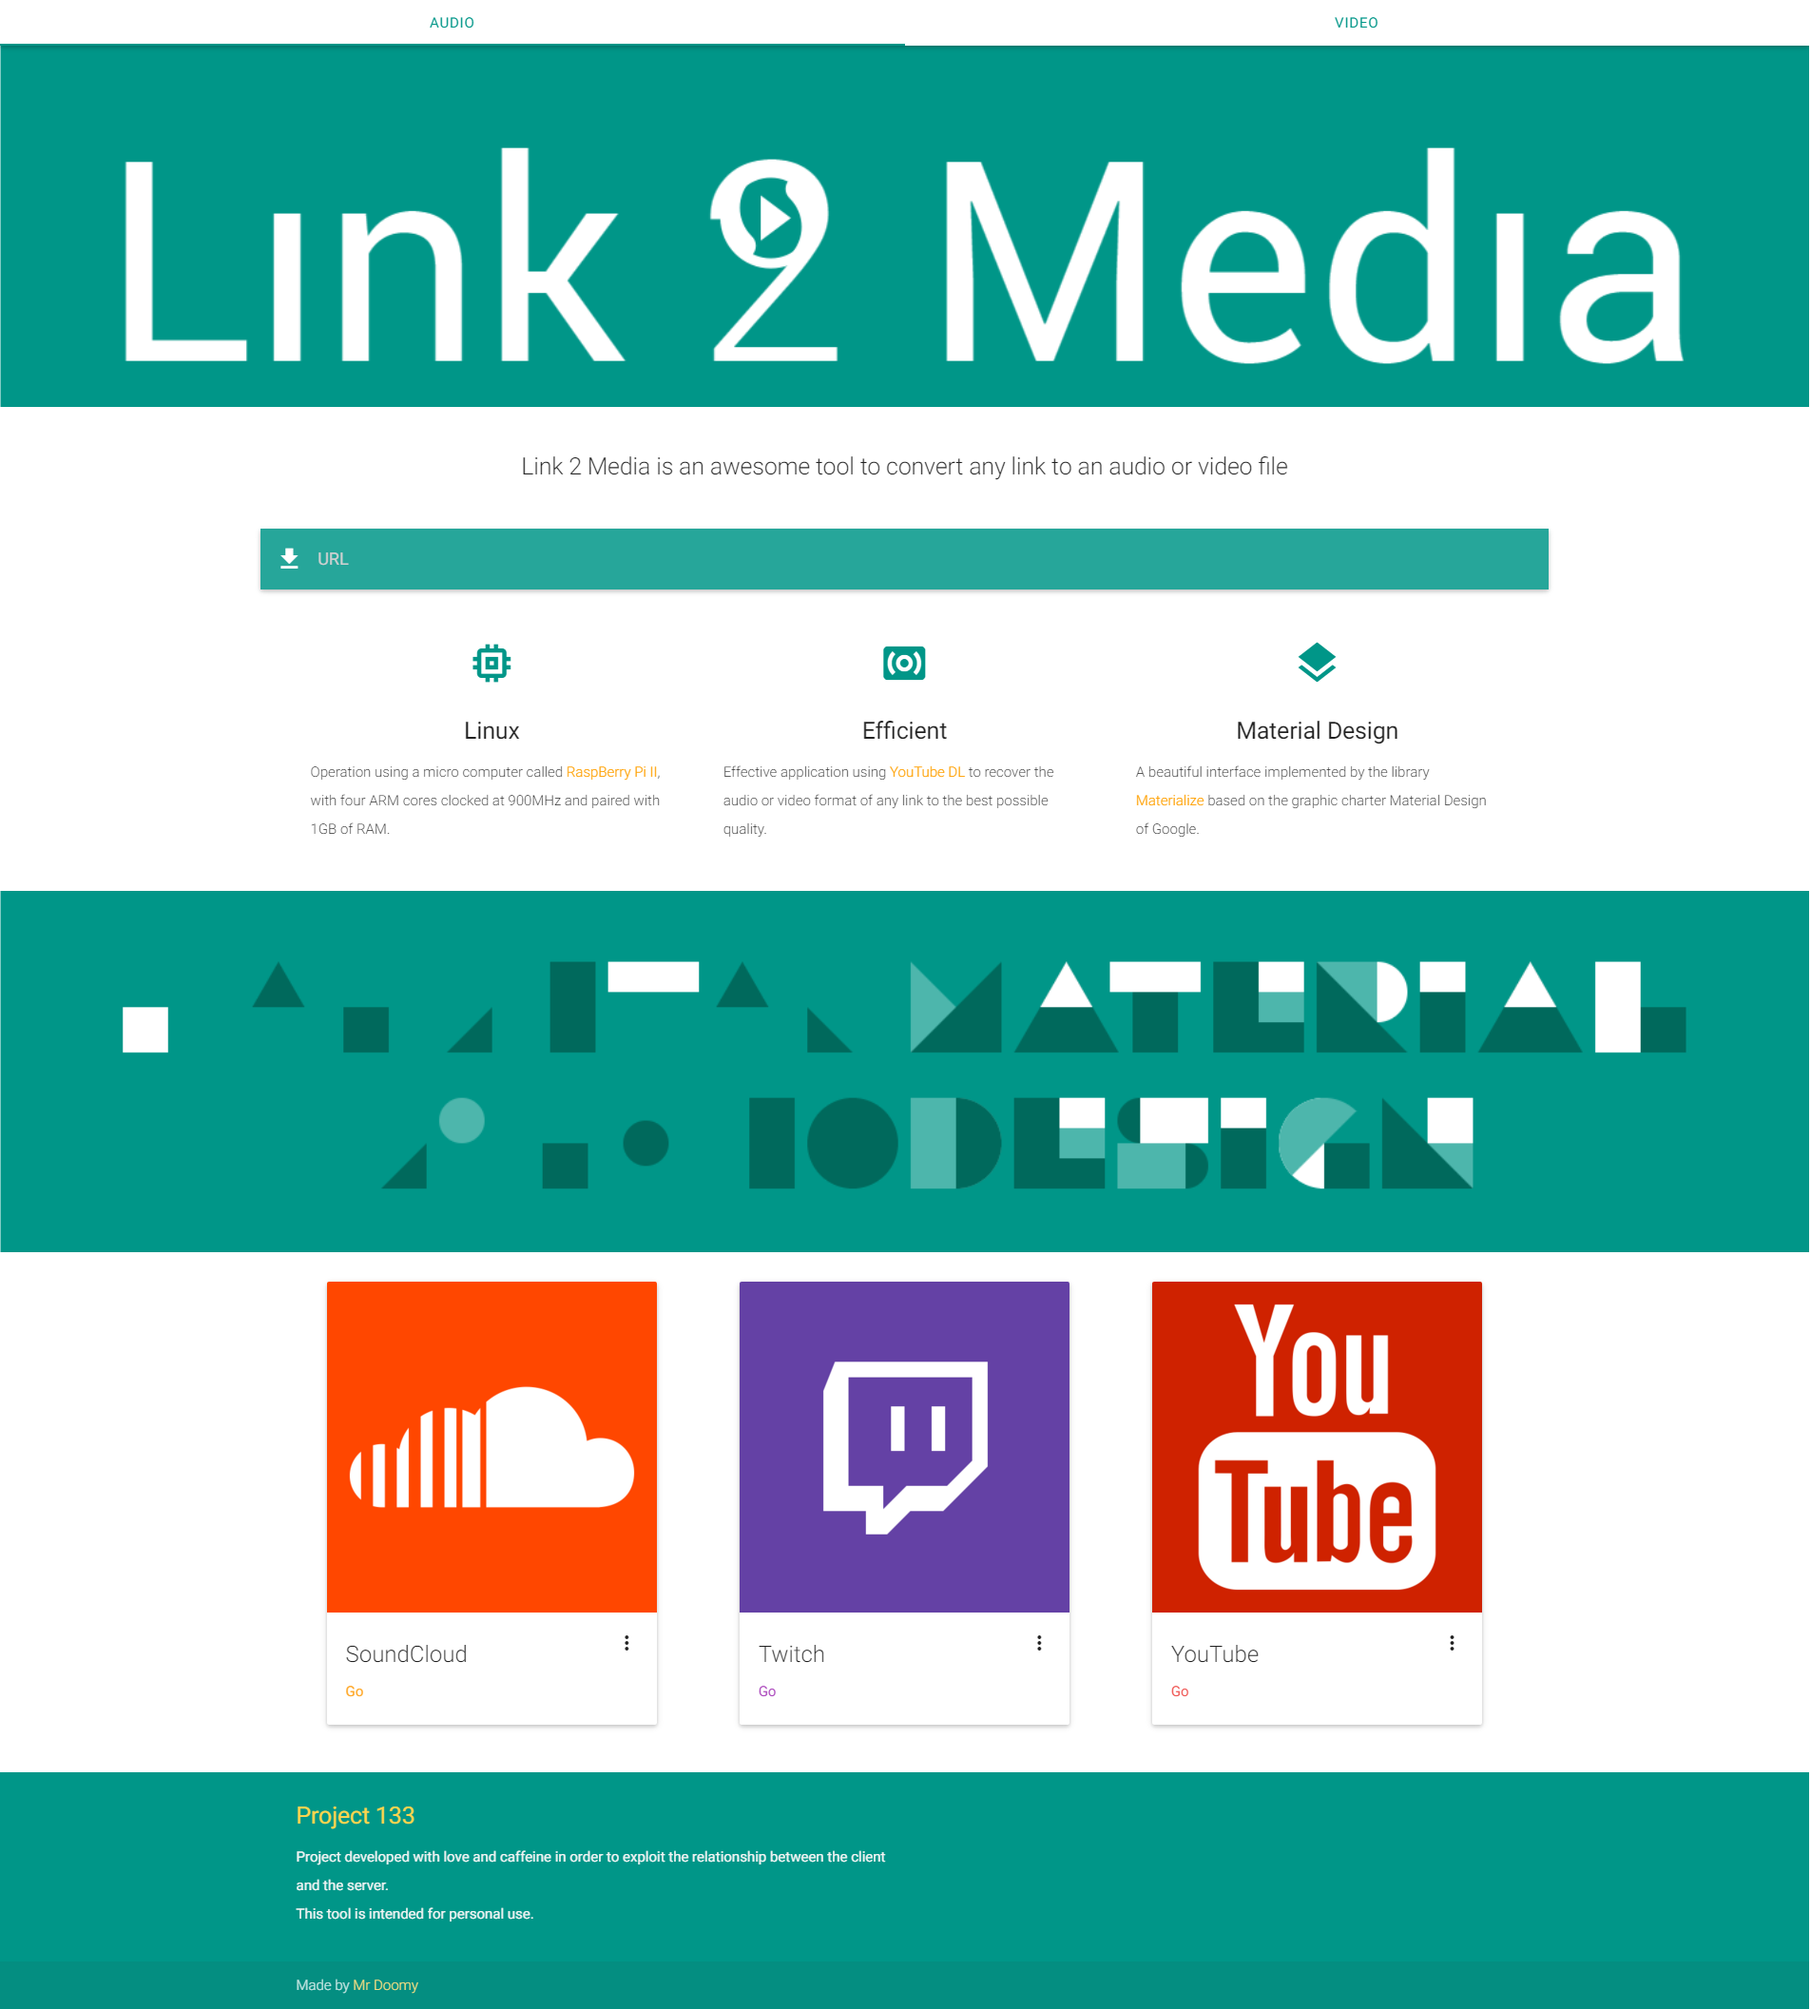
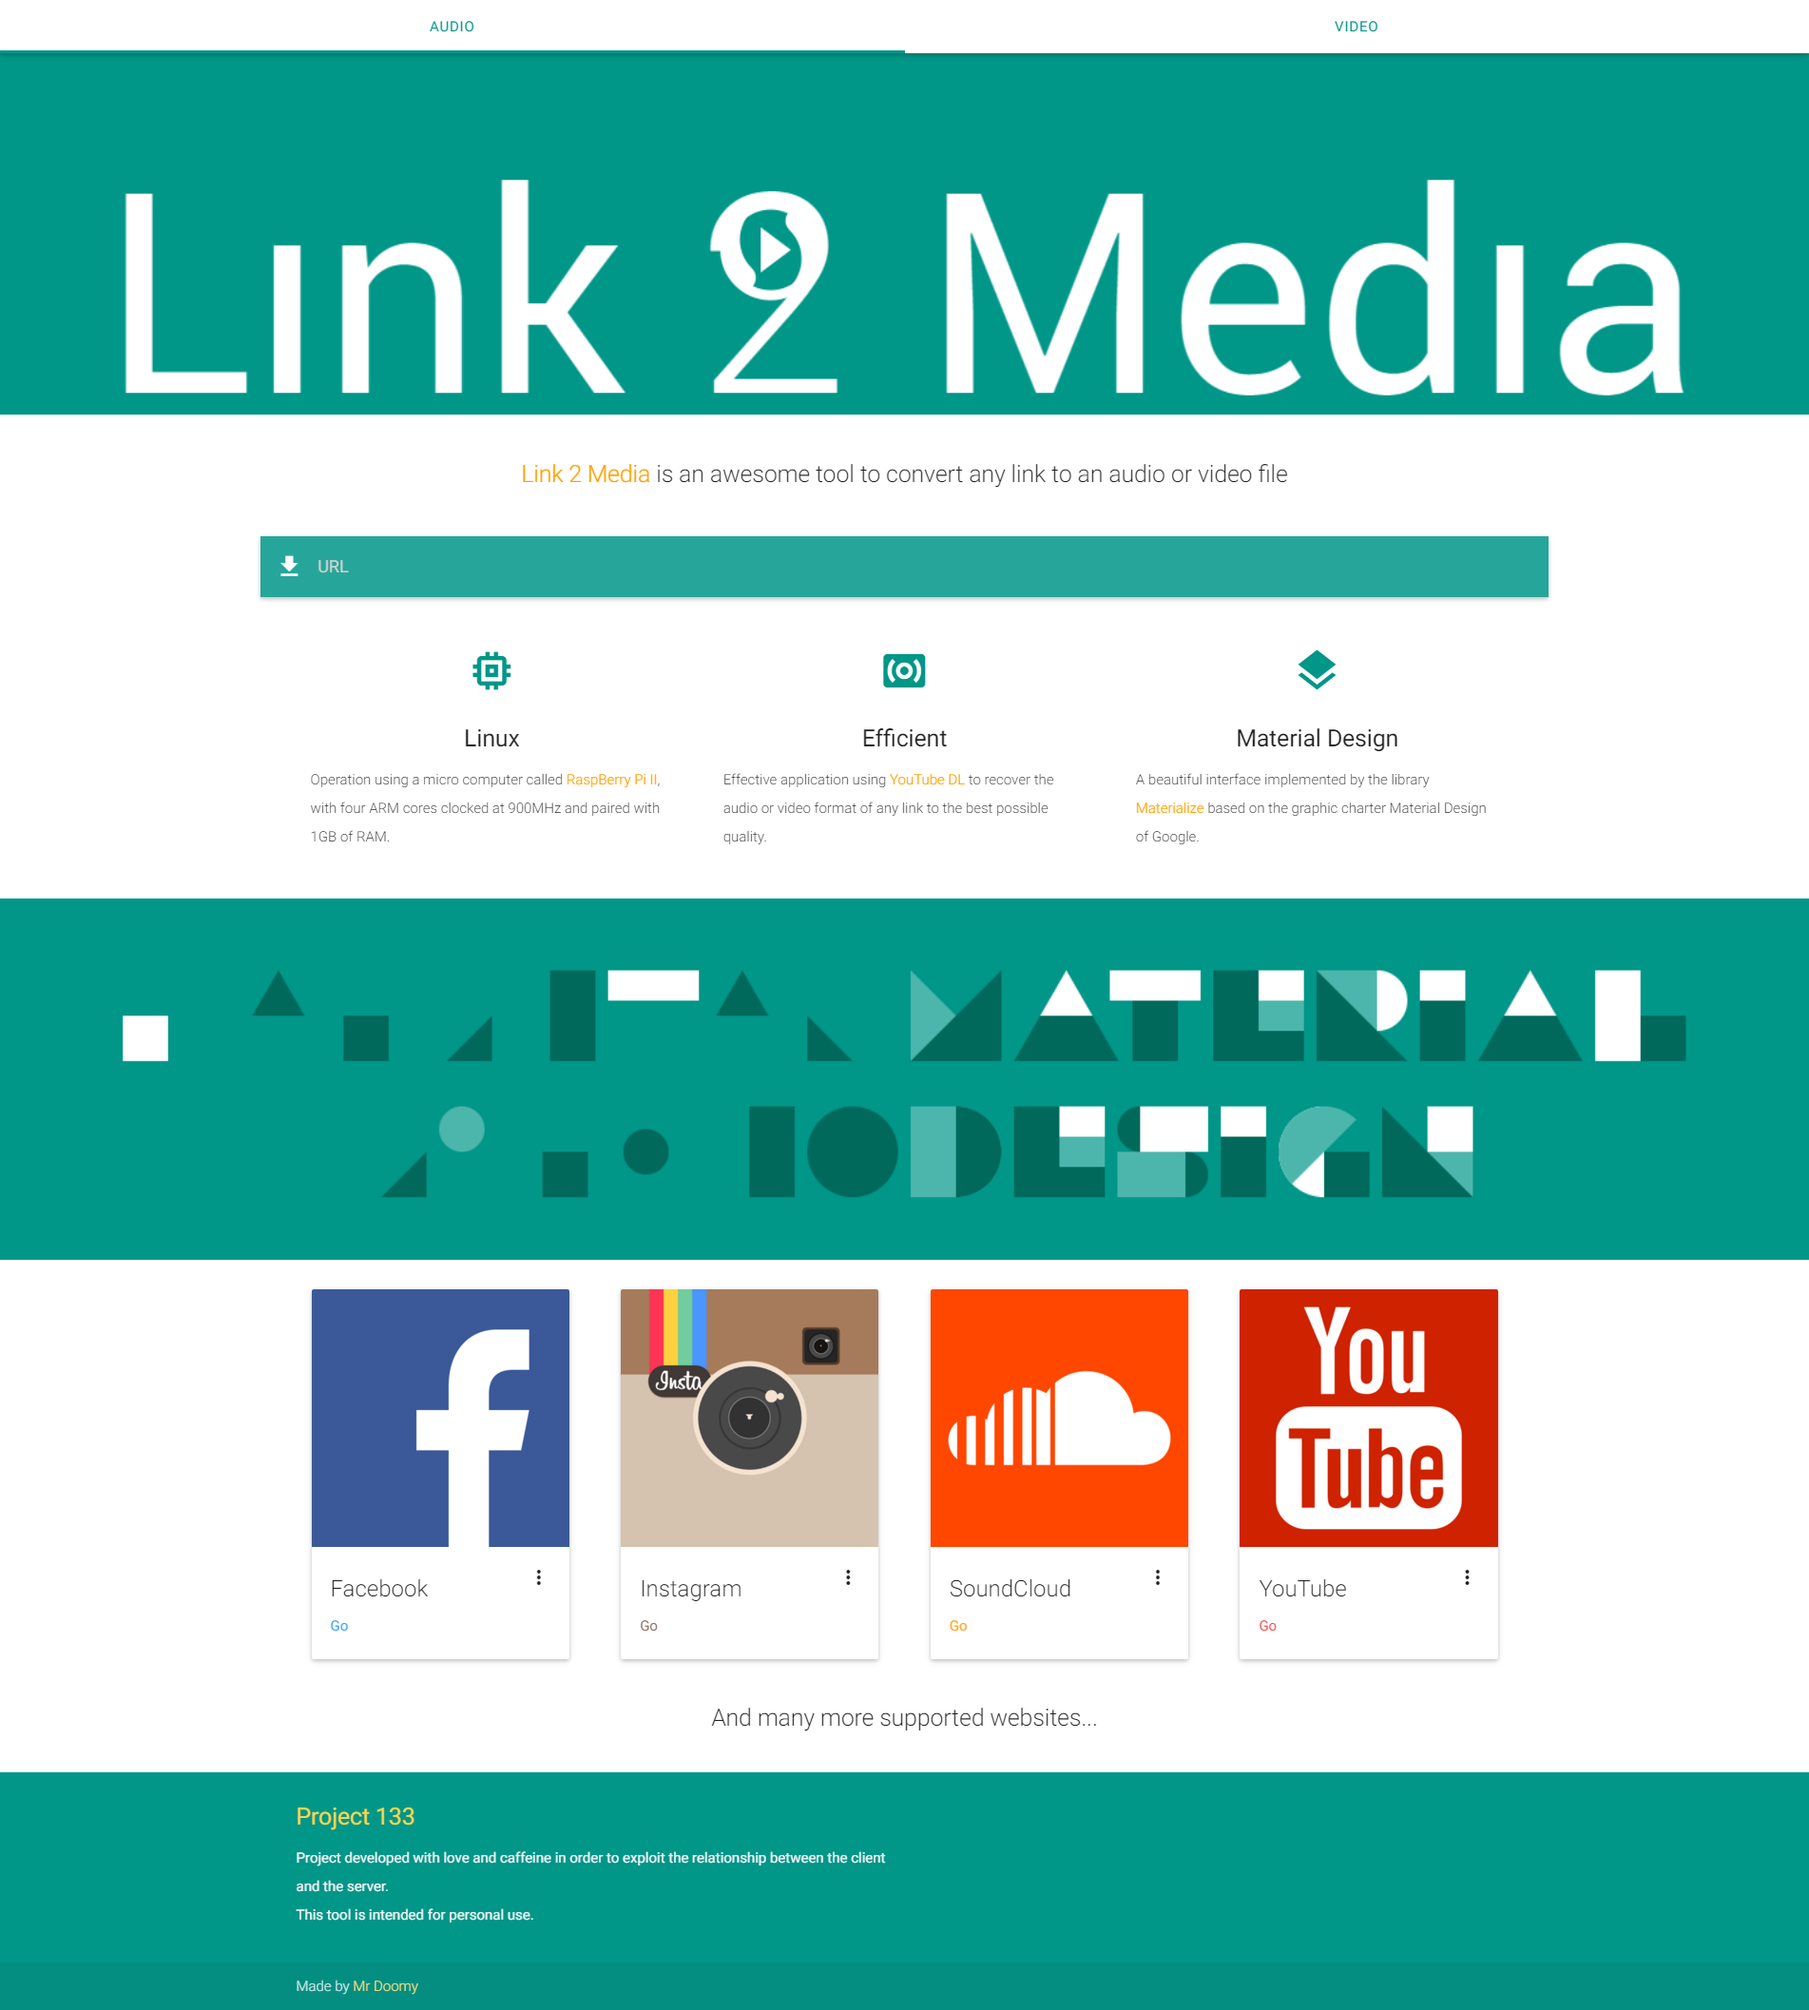
Various changes and code optimization

diff --git a/index.html b/index.html
@@ -11,8 +11,8 @@
 
     <!-- CSS  -->
     <link href="https://fonts.googleapis.com/icon?family=Material+Icons" rel="stylesheet">
-    <link href="css/materialize.css" type="text/css" rel="stylesheet" media="screen,projection"/>
-    <link href="css/style.css" type="text/css" rel="stylesheet" media="screen,projection"/>
+    <link href="css/materialize.css" type="text/css" rel="stylesheet" media="print,screen"/>
+    <link href="css/style.css" type="text/css" rel="stylesheet" media="print,screen"/>
   </head>
   <body>
 
@@ -99,7 +99,7 @@
         <div class="section">
           <br>
           <div class="row center">
-            <h5 class="header col s12 light">Link 2 Media is an awesome tool to convert any link to an audio or video file</h5>
+            <h5 class="header col s12 light"><a class="amber-text text-darken-2" href="http://github.com/mrdoomy/link2media">Link 2 Media</a> is an awesome tool to convert any link to an audio or video file</h5>
           </div>
           <br>
 
@@ -167,10 +167,42 @@
 
           <!--   Card Section   -->
           <div class="row">
-            <div class="col s12 m4">
+            <div class="col s12 m3">
               <div class="card resize">
                 <div class="card-image waves-effect waves-block waves-light">
-                  <img class="activator" src="images/soundcloud.png">
+                  <img class="activator" src="images/facebook.png" alt="Facebook">
+                </div>
+                <div class="card-content">
+                  <span class="card-title activator">Facebook<i class="material-icons right">more_vert</i></span>
+                  <p><a class="blue-text text-lighten-1" href="https://facebook.com" target="_blank">Go</a></p>
+                </div>
+                <div class="card-reveal">
+                  <span class="card-title">Facebook<i class="material-icons right">close</i></span>
+                  <p>Facebook is an online social networking service. After registering to use the site, users can create a user profile, add other users, exchange messages, post status updates and photos, share videos, use various apps.</p>
+                </div>
+              </div>
+            </div>
+
+            <div class="col s12 m3">
+              <div class="card resize">
+                <div class="card-image waves-effect waves-block waves-light">
+                  <img class="activator" src="images/instagram.png" alt="Instagram">
+                </div>
+                <div class="card-content">
+                  <span class="card-title activator">Instagram<i class="material-icons right">more_vert</i></span>
+                  <p><a class="brown-text text-lighten-1" href="https://instagram.com" target="_blank">Go</a></p>
+                </div>
+                <div class="card-reveal">
+                  <span class="card-title">Instagram<i class="material-icons right">close</i></span>
+                  <p>Instagram is an online mobile photo-sharing, video-sharing, and social networking service that enables its users to take pictures and videos, and share them either publicly or privately on the app.</p>
+                </div>
+              </div>
+            </div>
+
+            <div class="col s12 m3">
+              <div class="card resize">
+                <div class="card-image waves-effect waves-block waves-light">
+                  <img class="activator" src="images/soundcloud.png" alt="SoundCloud">
                 </div>
                 <div class="card-content">
                   <span class="card-title activator">SoundCloud<i class="material-icons right">more_vert</i></span>
@@ -183,26 +215,10 @@
               </div>
             </div>
 
-            <div class="col s12 m4">
+            <div class="col s12 m3">
               <div class="card resize">
                 <div class="card-image waves-effect waves-block waves-light">
-                  <img class="activator" src="images/twitch.png">
-                </div>
-                <div class="card-content">
-                  <span class="card-title activator">Twitch<i class="material-icons right">more_vert</i></span>
-                  <p><a class="purple-text text-lighten-1" href="https://twitch.tv" target="_blank">Go</a></p>
-                </div>
-                <div class="card-reveal">
-                  <span class="card-title">Twitch<i class="material-icons right">close</i></span>
-                  <p>Twitch is a live streaming video platform introduced in June 2011, focuses on video gaming, including playthroughs of video games, broadcasts of esports competitions, and more recently, creative content.</p>
-                </div>
-              </div>
-            </div>
-
-            <div class="col s12 m4">
-              <div class="card resize">
-                <div class="card-image waves-effect waves-block waves-light">
-                  <img class="activator" src="images/youtube.png">
+                  <img class="activator" src="images/youtube.png" alt="YouTube">
                 </div>
                 <div class="card-content">
                   <span class="card-title activator">YouTube<i class="material-icons right">more_vert</i></span>
@@ -216,6 +232,9 @@
             </div>
           </div>
 
+          <div class="row center">
+            <h5 class="header col s12 light">And many more supported websites...</h5>
+          </div>
         </div>
       </div>
 

diff --git a/js/script.js b/js/script.js
@@ -14,6 +14,7 @@
     var media = 'audio';
     var navBar = 'fix';
     var offSet = $("#download-form").offset().top;
+    var element = "<div class='row center'><nav><div class='nav-wrapper'><div class='input-field teal lighten-1'><input id='search' type='search' placeholder='URL' required><label for='search'><i class='material-icons'>file_download</i></label><i id='erase' class='material-icons'>close</i></div></div></nav></div>"
 
     $('.parallax').parallax();
     $(".main").toggleClass('fadeInCenter', true);
@@ -32,7 +33,7 @@
     $("#audio").click(function() {
       media = 'audio';
       if(navBar == 'static') {
-        $('#download-form').html("<div class='row center'><nav><div class='nav-wrapper'><div class='input-field teal lighten-1'><input id='search' type='search' placeholder='URL' required><label for='search'><i class='material-icons'>file_download</i></label><i id='erase' class='material-icons'>close</i></div></div></nav></div>", 1500);
+        $('#download-form').html(element, 1500);
       }
     });
 
@@ -40,7 +41,7 @@
     $("#video").click(function() {
       media = 'video';
       if(navBar == 'static') {
-        $('#download-form').html("<div class='row center'><nav><div class='nav-wrapper'><div class='input-field teal lighten-1'><input id='search' type='search' placeholder='URL' required><label for='search'><i class='material-icons'>file_download</i></label><i id='erase' class='material-icons'>close</i></div></div></nav></div>", 1500);
+        $('#download-form').html(element, 1500);
       }
     });
 
@@ -70,7 +71,8 @@
               navBar = 'static';
               data = JSON.parse(data);
               if(data.success == 1) {
-                $('#download-form').html("<h2 class='header center orange-text'>Corrupt Link</h2>", 1500);
+                $('#download-form').html(element, 1500);
+                Materialize.toast('Corrupt link !', 3000);
               } else {
                 $('#download-form').html("<form method='post' action='php/download.php'><input id='download-button' type='hidden' name='filename'><input class='waves-effect waves-light btn-large teal' type='submit' value='Download'></form>");
                 $('#download-button').val(data.filename);
@@ -79,7 +81,7 @@
             },
             error: function() {
               navBar = 'error';
-              $('#download-form').html("<h2 class='header center red-text'>Fatal Error</h2>", 1500);
+              $('#download-form').html("<h3 class='header center red-text'>Fatal Error</h3>", 1500);
             }
           });
         }

diff --git a/css/style.css b/css/style.css
@@ -1,7 +1,7 @@
 p {
   line-height: 2rem;
 }
- 
+
 .icon-block {
   padding: 0 15px;
 }
@@ -23,6 +23,10 @@ footer.page-footer {
   line-height: 0;
   height: auto;
   color: rgba(255,255,255,.9);
+  -webkit-transition: all 0.5s;
+  -moz-transition: all 0.5s;
+  -o-transition: all 0.5s;
+  transition: all 0.5s;
 }
 
 .parallax {
@@ -44,8 +48,19 @@ footer.page-footer {
 /* Card */
 .resize {
   margin-top: 16px;
-  margin-left: 32px;
-  margin-right: 32px;
+  margin-left: 16px;
+  margin-right: 16px;
+  -webkit-transition: all 0.5s;
+  -moz-transition: all 0.5s;
+  -o-transition: all 0.5s;
+  transition: all 0.5s;
+}
+
+@media only screen and (max-width : 600px) {
+  .resize {
+    margin-left: 32px;
+    margin-right: 32px;
+  }
 }
 
 /* PreLoader */

diff --git a/php/script.php b/php/script.php
@@ -10,7 +10,7 @@
     $command = 'youtube-dl -o "/home/link2media/Music.%(ext)s" -x --audio-format mp3 ' .escapeshellarg($link);
   } else {
     $log['filename'] = 'Video.mp4';
-	/* Change this line with your own path */
+    /* Change this line with your own path */
     $command = 'youtube-dl -o "/home/link2media/Video.%(ext)s" -f mp4 ' .escapeshellarg($link);
   }
 

diff --git a/README.md b/README.md
@@ -8,6 +8,23 @@ This includes features like :
 - Beautiful Material Design interface
 - Optimised for Linux architecture
 
+#Prerequisites
+
+You need to install those two software on your Linux server
+
+1. `YouTube-DL`
+
+    sudo pip3 install -U youtube-dl
+
+2. `FFMpeg`
+
+    cd /usr/src
+    sudo git clone git://source.ffmpeg.org/ffmpeg.git
+    cd ffmpeg
+    sudo ./configure --arch=armel --target-os=linux --enable-gpl --enable-nonfree
+    make
+    sudo make install
+
 #Setting
 
 To run the application at home, you must change the path to the registration folder in the following files :
